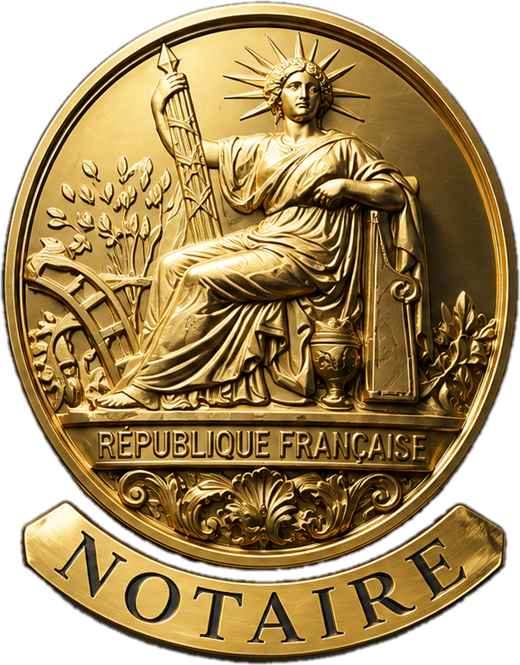
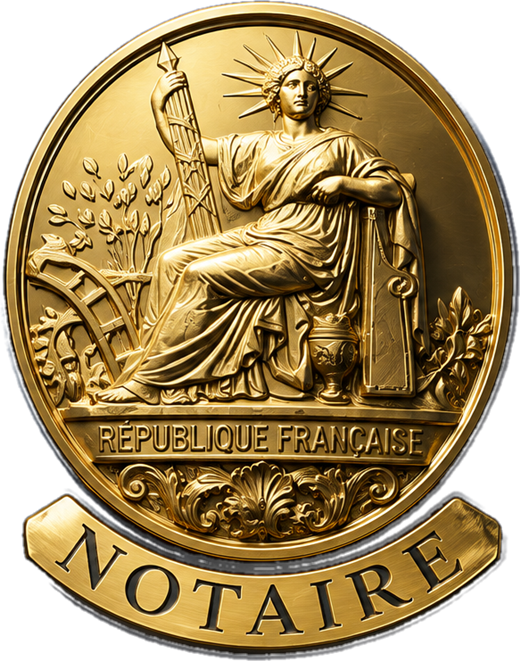
Conserver le liseré sombre qui arrondit les bords de l'emblème
Le tri par la couleur ne gardait que l'or vif : le liseré sombre qui
enveloppe le relief disparaissait, et les extrémités du bandeau Notaire
se terminaient par une arête droite au lieu de leur biseau arrondi.

Le fond bleu du fichier fourni est désormais modélisé (ajustement
quadratique par moindres carrés sur la bande de bord, résidu moyen 10,8),
ce qui permet de distinguer le liseré — nettement plus sombre que le fond
— du fond lui-même. Le liseré est conservé en dégradé sur une bande de
six pixels autour de l'or ; au-delà, rien n'est gardé, donc aucune auréole.

Les composantes connexes notables sont toutes conservées, et non la seule
plus grande : le bandeau est séparé du disque par ce liseré et disparaissait
entièrement sinon. Les taches de fond isolées, elles, restent écartées.

diff --git a/src/components/embleme-notaire.tsx b/src/components/embleme-notaire.tsx
@@ -35,7 +35,7 @@ export function EmblemeNotaire({
             src={source}
             alt=""
             width={520}
-            height={665}
+            height={661}
             priority
             sizes="(min-width: 1024px) 24rem, 82vw"
             className={styles.image}
